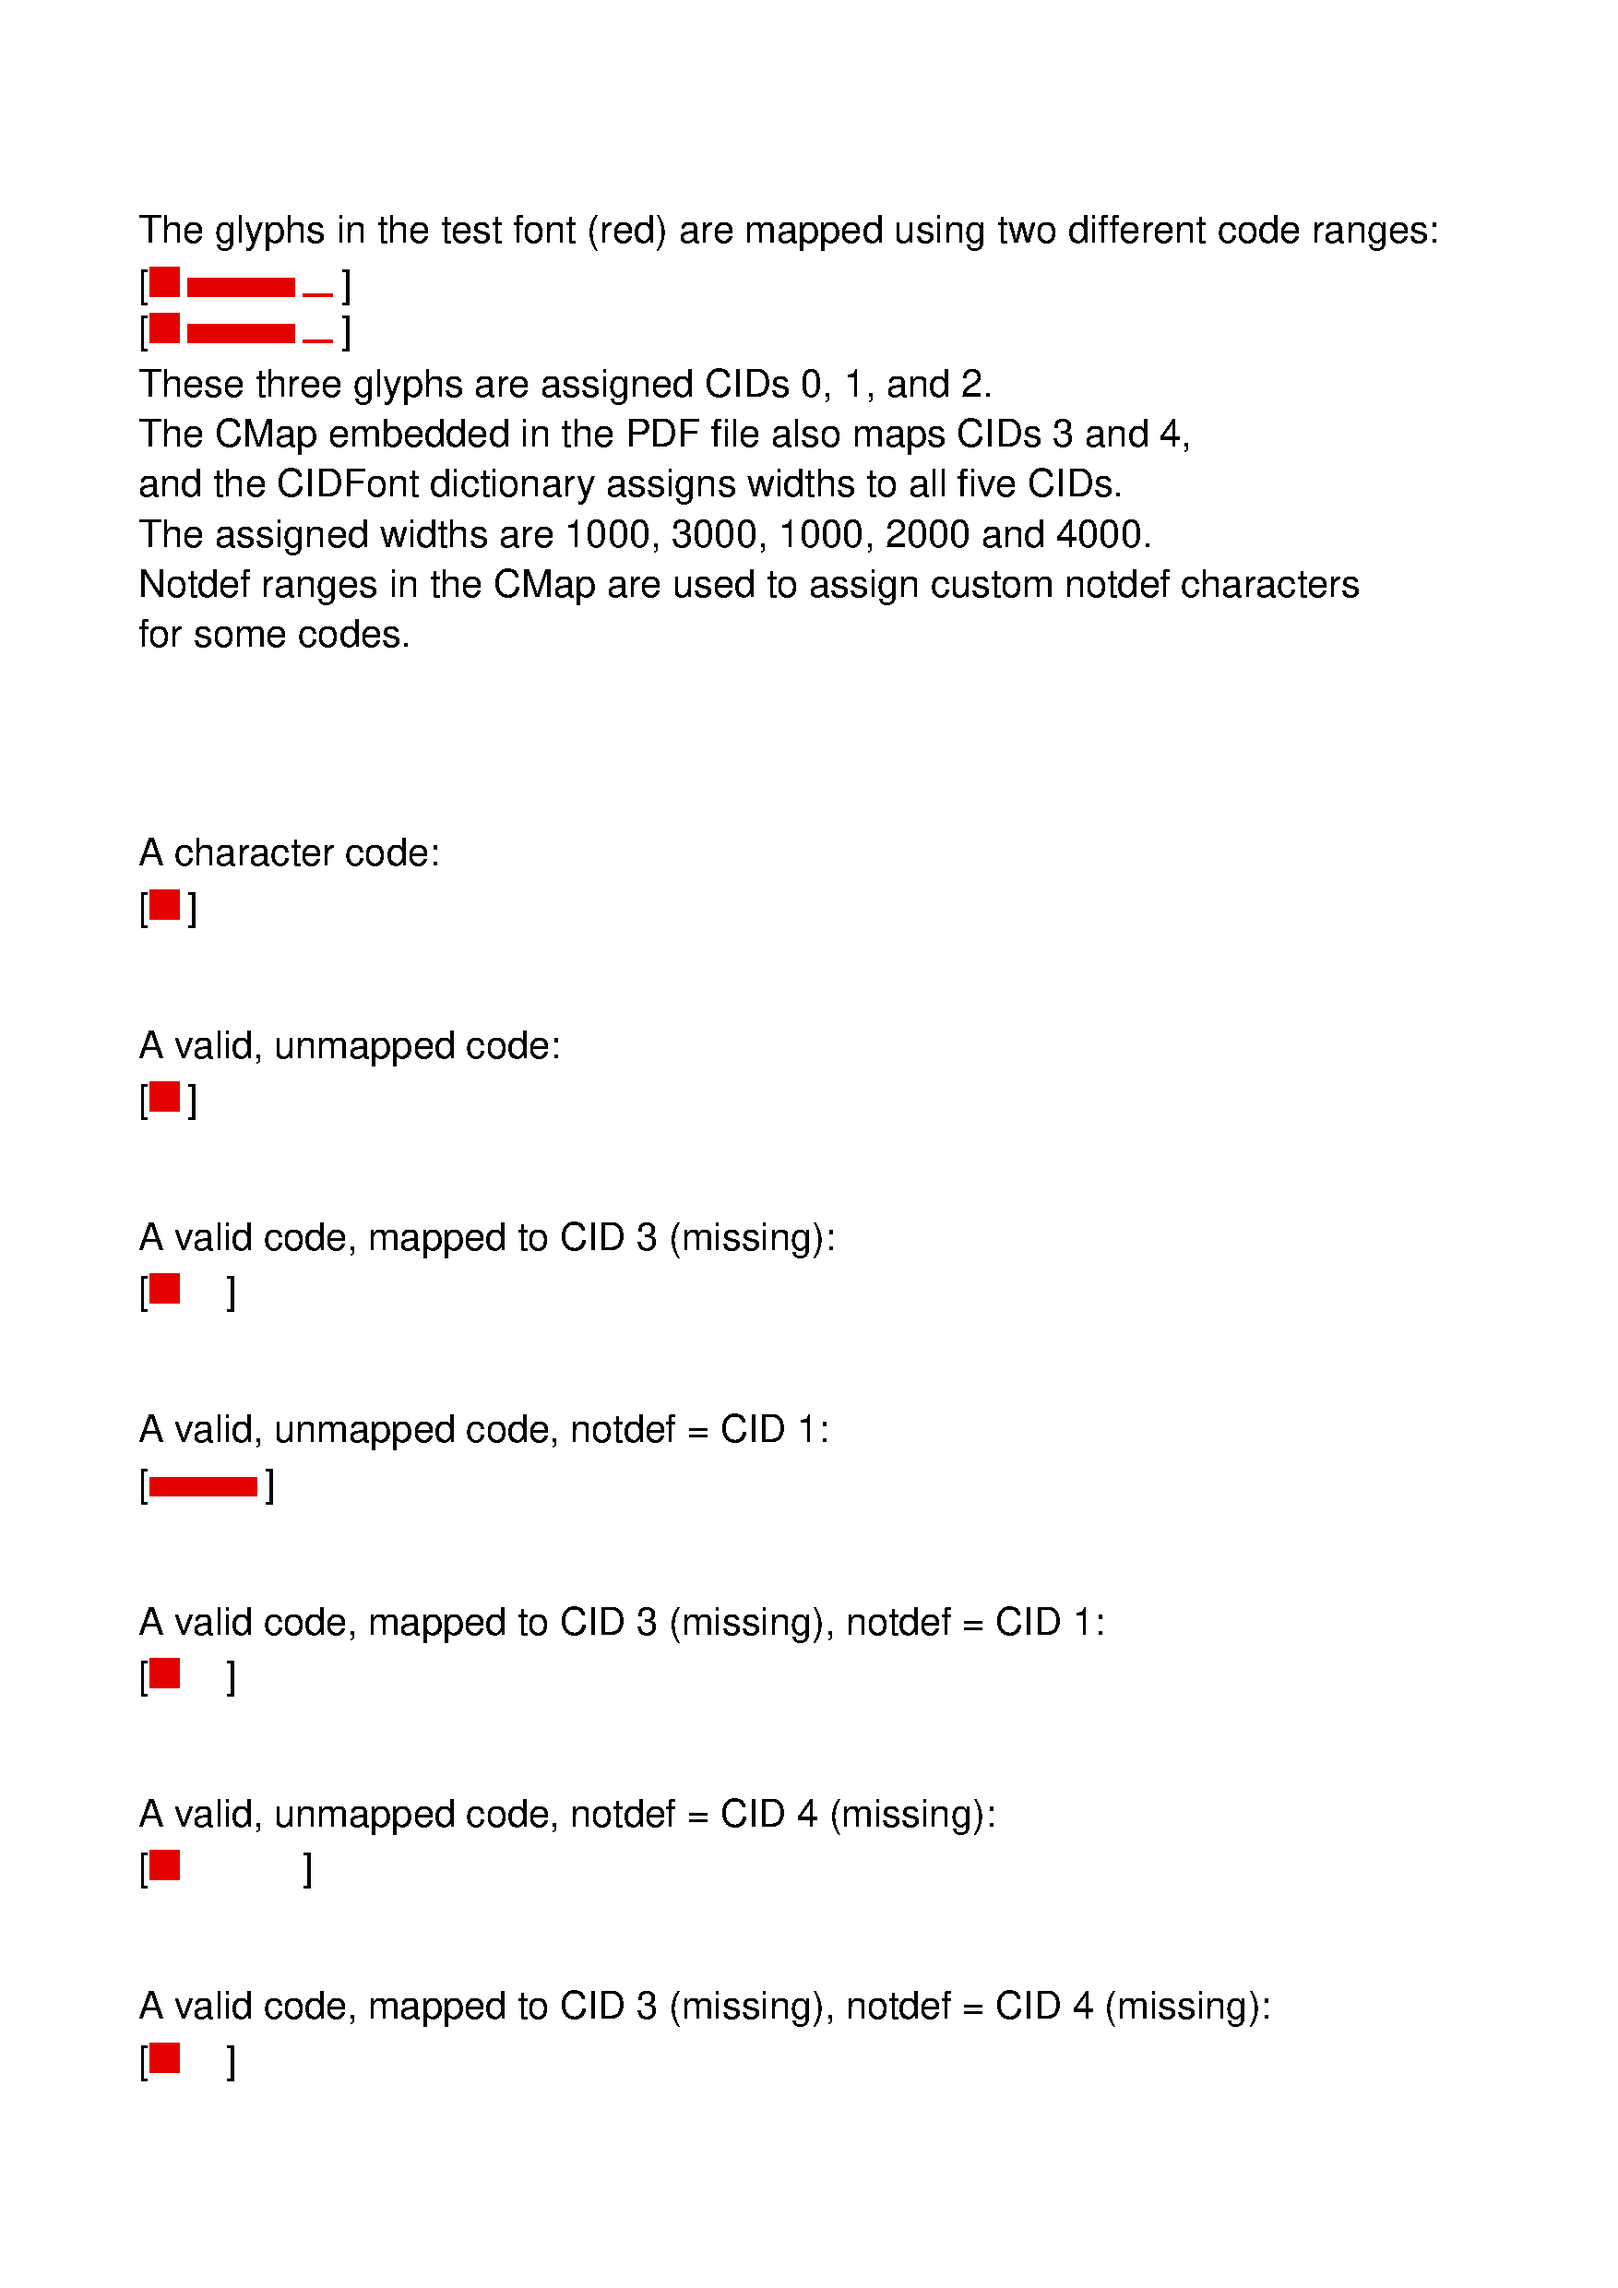
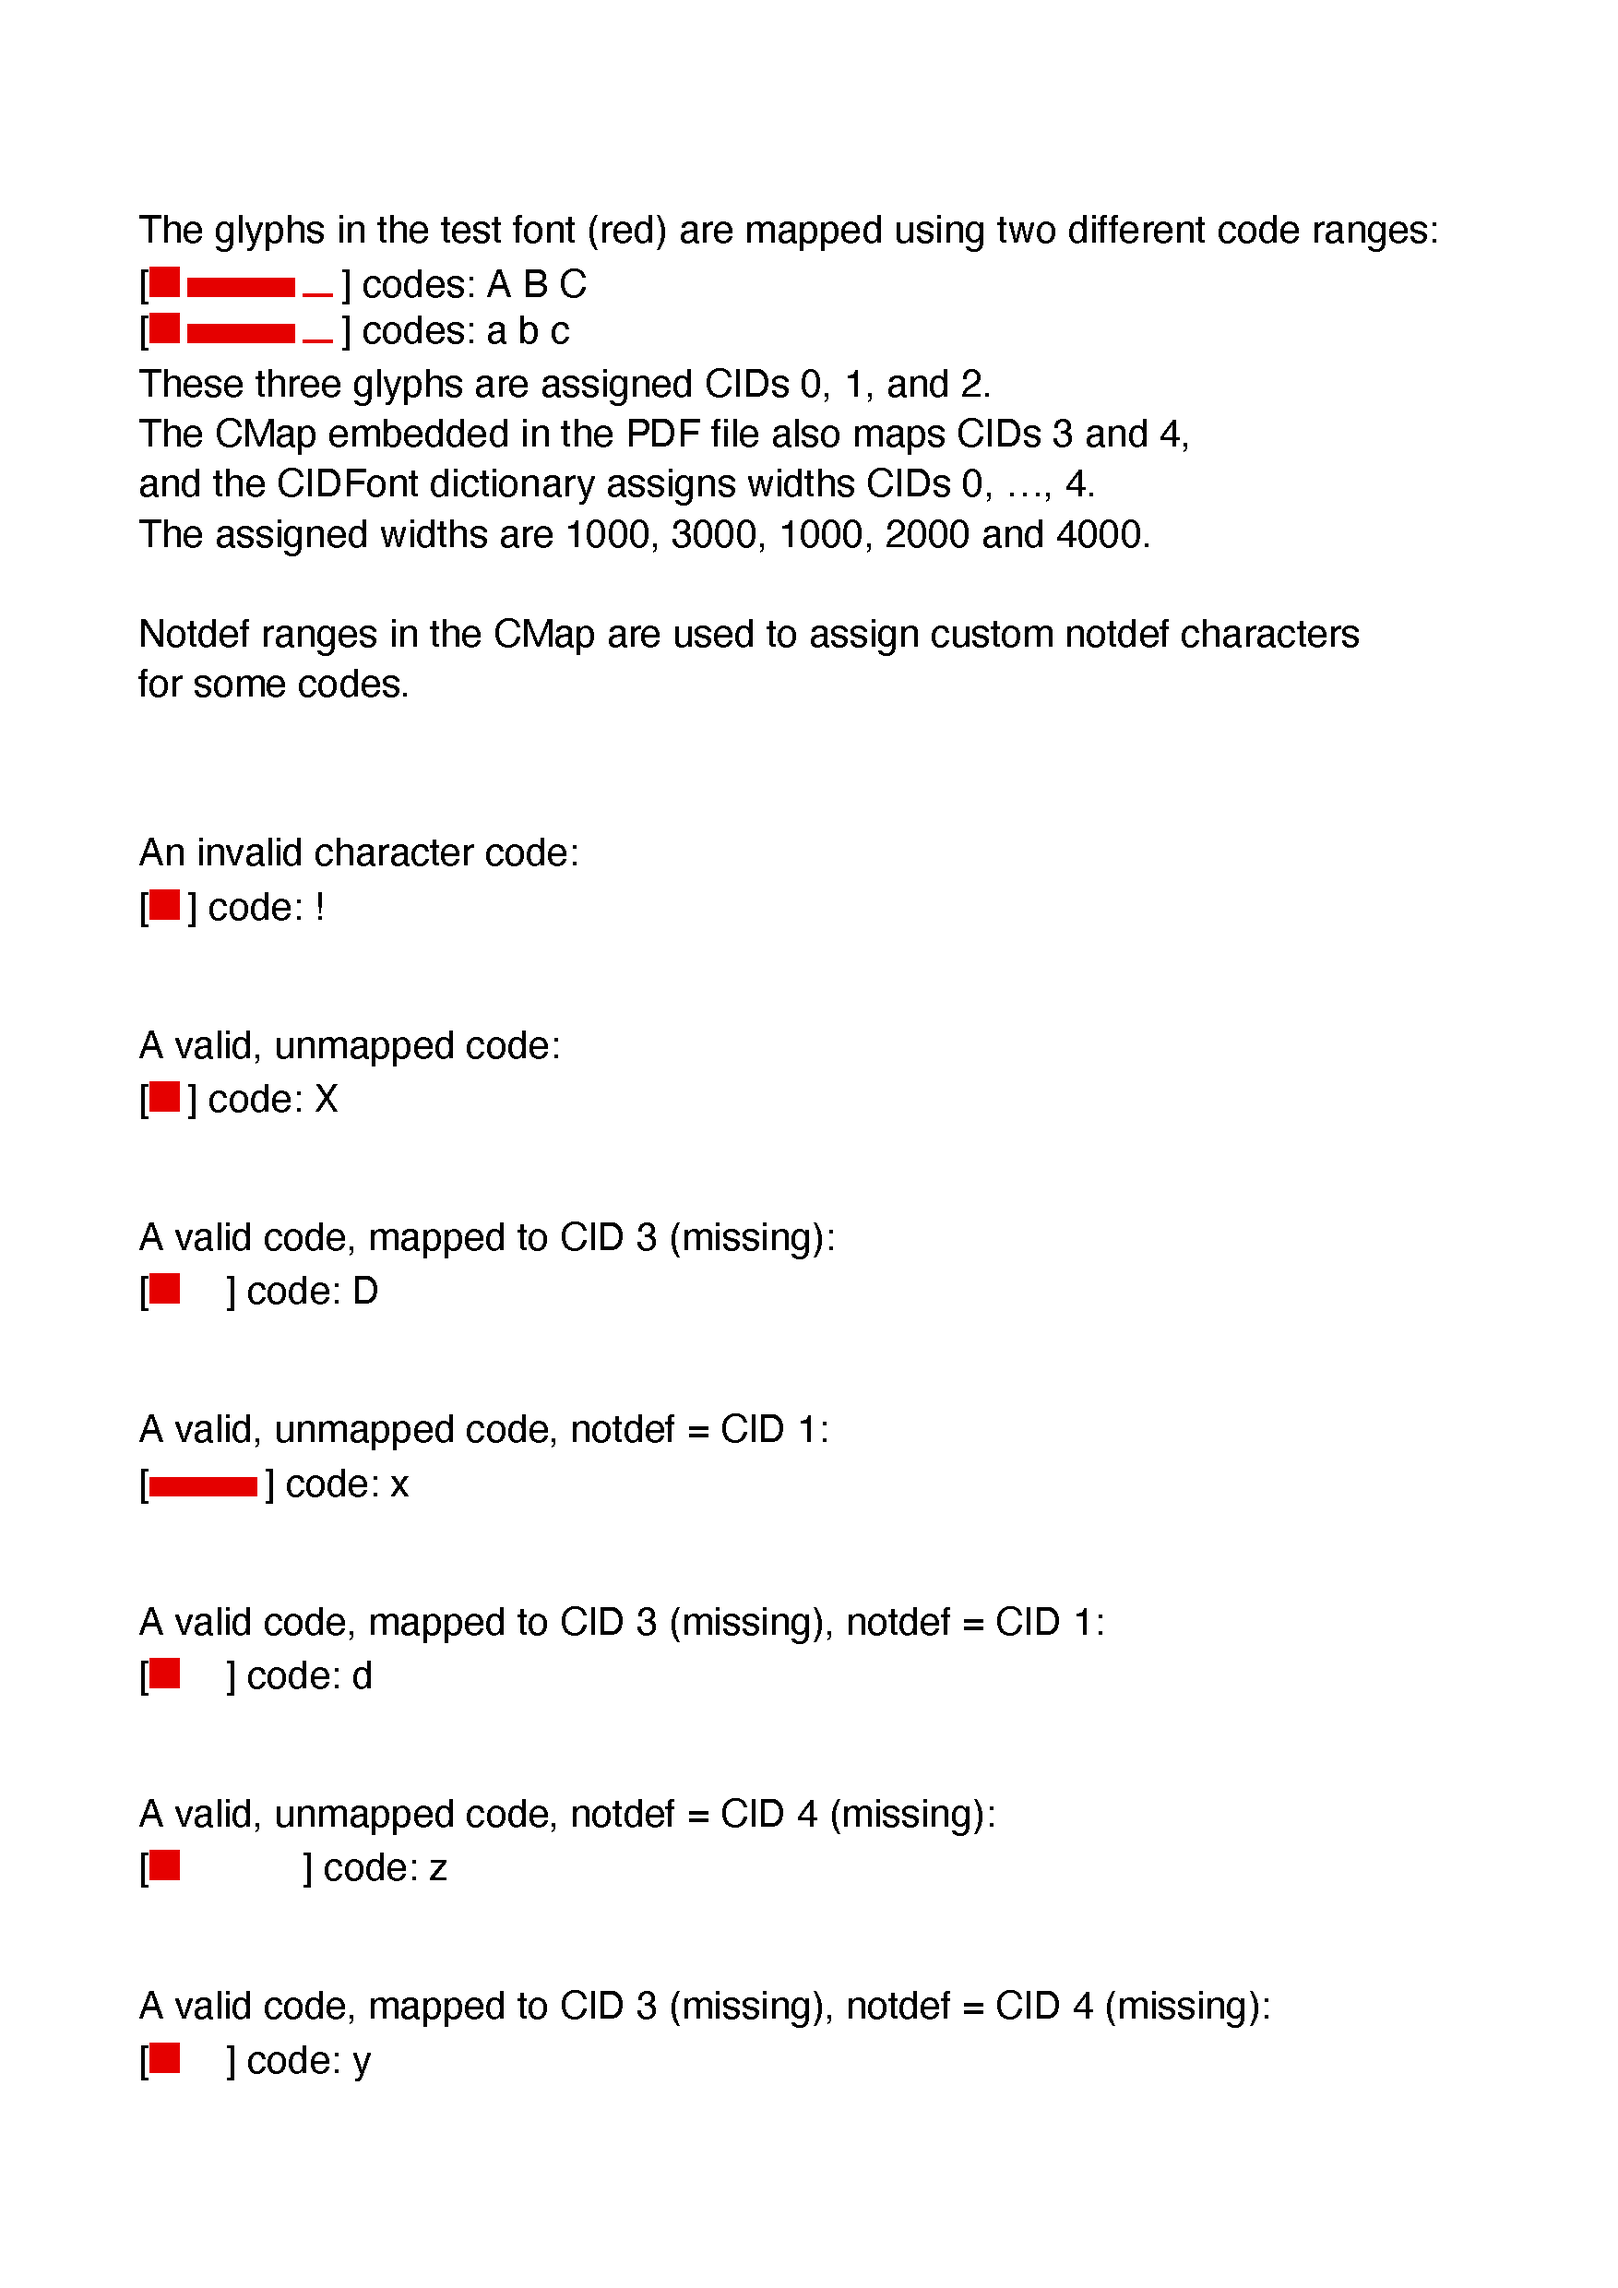
updates

diff --git a/examples/viewer-tests/notdef-width/main.go b/examples/viewer-tests/notdef-width/main.go
@@ -68,7 +68,7 @@ func writeTestFile(filename string) error {
 	w.TextShowRaw(pdf.String("ABC"))
 	w.TextSetFont(textFont, 10)
 	w.SetFillColor(black)
-	w.TextShow("]")
+	w.TextShow("] codes: A B C")
 	w.TextSecondLine(0, -12)
 	w.TextShow("[")
 	w.TextSetFont(testFont, 10)
@@ -76,15 +76,16 @@ func writeTestFile(filename string) error {
 	w.TextShowRaw(pdf.String("abc"))
 	w.TextSetFont(textFont, 10)
 	w.SetFillColor(black)
-	w.TextShow("]")
+	w.TextShow("] codes: a b c")
 	w.TextSecondLine(0, -14)
 	w.TextShow("These three glyphs are assigned CIDs 0, 1, and 2.")
 	w.TextSecondLine(0, -13)
 	w.TextShow("The CMap embedded in the PDF file also maps CIDs 3 and 4,")
 	w.TextNextLine()
-	w.TextShow("and the CIDFont dictionary assigns widths to all five CIDs.")
+	w.TextShow("and the CIDFont dictionary assigns widths CIDs 0, …, 4.")
 	w.TextNextLine()
 	w.TextShow("The assigned widths are 1000, 3000, 1000, 2000 and 4000.")
+	w.TextNextLine()
 	w.TextNextLine()
 	w.TextShow("Notdef ranges in the CMap are used to assign custom notdef characters")
 	w.TextNextLine()
@@ -95,7 +96,7 @@ func writeTestFile(filename string) error {
 	w.TextFirstLine(36, 370)
 	w.TextSetFont(textFont, 10)
 	w.SetFillColor(black)
-	w.TextShow("A character code:")
+	w.TextShow("An invalid character code:")
 	w.TextSecondLine(0, -14)
 	w.TextShow("[")
 	w.TextSetFont(testFont, 10)
@@ -103,7 +104,7 @@ func writeTestFile(filename string) error {
 	w.TextShowRaw(pdf.String("!"))
 	w.TextSetFont(textFont, 10)
 	w.SetFillColor(black)
-	w.TextShow("]")
+	w.TextShow("] code: !")
 	w.TextEnd()
 
 	w.TextBegin()
@@ -118,7 +119,7 @@ func writeTestFile(filename string) error {
 	w.TextShowRaw(pdf.String("X"))
 	w.TextSetFont(textFont, 10)
 	w.SetFillColor(black)
-	w.TextShow("]")
+	w.TextShow("] code: X")
 	w.TextEnd()
 
 	w.TextBegin()
@@ -133,7 +134,7 @@ func writeTestFile(filename string) error {
 	w.TextShowRaw(pdf.String("D"))
 	w.TextSetFont(textFont, 10)
 	w.SetFillColor(black)
-	w.TextShow("]")
+	w.TextShow("] code: D")
 	w.TextEnd()
 
 	w.TextBegin()
@@ -148,7 +149,7 @@ func writeTestFile(filename string) error {
 	w.TextShowRaw(pdf.String("x"))
 	w.TextSetFont(textFont, 10)
 	w.SetFillColor(black)
-	w.TextShow("]")
+	w.TextShow("] code: x")
 	w.TextEnd()
 
 	w.TextBegin()
@@ -163,7 +164,7 @@ func writeTestFile(filename string) error {
 	w.TextShowRaw(pdf.String("d"))
 	w.TextSetFont(textFont, 10)
 	w.SetFillColor(black)
-	w.TextShow("]")
+	w.TextShow("] code: d")
 	w.TextEnd()
 
 	w.TextBegin()
@@ -178,7 +179,7 @@ func writeTestFile(filename string) error {
 	w.TextShowRaw(pdf.String("z"))
 	w.TextSetFont(textFont, 10)
 	w.SetFillColor(black)
-	w.TextShow("]")
+	w.TextShow("] code: z")
 	w.TextEnd()
 
 	w.TextBegin()
@@ -193,7 +194,7 @@ func writeTestFile(filename string) error {
 	w.TextShowRaw(pdf.String("y"))
 	w.TextSetFont(textFont, 10)
 	w.SetFillColor(black)
-	w.TextShow("]")
+	w.TextShow("] code: y")
 	w.TextEnd()
 
 	return w.Close()
@@ -252,7 +253,11 @@ func makeTestFont() *testFont {
 		FDSelect: func(glyph.ID) int {
 			return 0
 		},
-		ROS:      testCharacterCollection,
+		ROS: &cff.CIDSystemInfo{
+			Registry:   "seehuhn.de",
+			Ordering:   "Test",
+			Supplement: 0,
+		},
 		GIDToCID: []cid.CID{0, 1, 2}, // identity GID <-> CID mapping
 	}
 	fontCFF := &cff.Font{
@@ -263,22 +268,47 @@ func makeTestFont() *testFont {
 		Outlines: o,
 	}
 
+	cmap := &cmap.InfoNew{
+		Name: "TestCMap",
+		ROS: &cmap.CIDSystemInfo{
+			Registry:   o.ROS.Registry,
+			Ordering:   o.ROS.Ordering,
+			Supplement: pdf.Integer(o.ROS.Supplement),
+		},
+		WMode: cmap.Horizontal,
+		CodeSpaceRange: []charcode.Range{
+			{Low: []byte{'A'}, High: []byte{'Z'}},
+			{Low: []byte{'a'}, High: []byte{'z'}},
+		},
+		CIDRanges: []cmap.RangeNew{
+			// Map all glyphs twice (including the missing CIDs 3 and 4).
+			{First: []byte{'A'}, Last: []byte{'E'}, Value: 0},
+			{First: []byte{'a'}, Last: []byte{'e'}, Value: 0},
+		},
+		CIDSingles: []cmap.SingleNew{
+			{Code: []byte{'y'}, Value: 3},
+		},
+		NotdefRanges: []cmap.RangeNew{
+			// Codes 'y' and 'z' use a non-existent glyph as the notdef character.
+			{First: []byte{'y'}, Last: []byte{'z'}, Value: 4},
+			// For the rest of the lowercase range we use the alternative
+			// notdef glyph (CID 1).
+			{First: []byte{'a'}, Last: []byte{'x'}, Value: 1},
+		},
+	}
+
 	res := &testFont{
 		data: fontCFF,
+		cmap: cmap,
 	}
 	return res
-}
-
-var testCharacterCollection = &cff.CIDSystemInfo{
-	Registry:   "seehuhn.de",
-	Ordering:   "Test",
-	Supplement: 0,
 }
 
 var _ font.Font = (*testFont)(nil)
 
 type testFont struct {
 	data *cff.Font
+	cmap *cmap.InfoNew
 }
 
 func (f *testFont) PostScriptName() string {
@@ -292,44 +322,17 @@ func (f *testFont) Embed(rm *pdf.ResourceManager) (pdf.Native, font.Embedded, er
 		FontName:   "Test",
 		FontFamily: "Test",
 		FontBBox:   rect.Rect{LLx: 0, LLy: 0, URx: 3000, URy: 1000},
-		Ascent:     1000,
+		Ascent:     800,
 		Descent:    0,
 		Leading:    1000,
-		CapHeight:  1000,
+		CapHeight:  800,
 		XHeight:    500,
 	}
 	dicts := &cidfont.Type0Dict{
 		Ref:            fontDictRef,
 		PostScriptName: "Test",
 		Descriptor:     fd,
-		Encoding: &cmap.InfoNew{
-			Name: "TestCMap",
-			ROS: &cmap.CIDSystemInfo{
-				Registry:   testCharacterCollection.Registry,
-				Ordering:   testCharacterCollection.Ordering,
-				Supplement: pdf.Integer(testCharacterCollection.Supplement),
-			},
-			WMode: cmap.Horizontal,
-			CodeSpaceRange: []charcode.Range{
-				{Low: []byte{'A'}, High: []byte{'Z'}},
-				{Low: []byte{'a'}, High: []byte{'z'}},
-			},
-			CIDRanges: []cmap.RangeNew{
-				// Map all glyphs twice (including the missing CIDs 3 and 4).
-				{First: []byte{'A'}, Last: []byte{'E'}, Value: 0},
-				{First: []byte{'a'}, Last: []byte{'e'}, Value: 0},
-			},
-			CIDSingles: []cmap.SingleNew{
-				{Code: []byte{'y'}, Value: 3},
-			},
-			NotdefRanges: []cmap.RangeNew{
-				// Codes 'y' and 'z' use a non-existent glyph as the notdef character.
-				{First: []byte{'y'}, Last: []byte{'z'}, Value: 4},
-				// For the rest of the lowercase range we use the alternative
-				// notdef glyph (CID 1).
-				{First: []byte{'a'}, Last: []byte{'x'}, Value: 1},
-			},
-		},
+		Encoding:       f.cmap,
 		Width: map[cmap.CID]float64{
 			0: 1000,
 			1: 3000,
@@ -338,16 +341,6 @@ func (f *testFont) Embed(rm *pdf.ResourceManager) (pdf.Native, font.Embedded, er
 			4: 4000,
 		},
 		DefaultWidth: 1000,
-		Text: &cmap.ToUnicodeInfo{
-			CodeSpaceRange: []charcode.Range{
-				{Low: []byte{'A'}, High: []byte{'Z'}},
-				{Low: []byte{'a'}, High: []byte{'z'}},
-			},
-			Ranges: []cmap.ToUnicodeRange{
-				{First: []byte{'A'}, Last: []byte{'Z'}, Values: [][]rune{{'A'}}},
-				{First: []byte{'a'}, Last: []byte{'z'}, Values: [][]rune{{'a'}}},
-			},
-		},
 		GetFont: func() (cidfont.Type0FontData, error) {
 			return f.data, nil
 		},

diff --git a/font/type1/font.go b/font/type1/font.go
@@ -78,7 +78,12 @@ func New(psFont *type1.Font, metrics *afm.Metrics, opt *font.Options) (*Instance
 		return nil, errors.New("composite embedding for Type 1 fonts not supported")
 	}
 
-	glyphNames := psFont.GlyphList()
+	var glyphNames []string
+	if psFont != nil {
+		glyphNames = psFont.GlyphList()
+	} else {
+		glyphNames = metrics.GlyphList()
+	}
 
 	geometry := &font.Geometry{}
 	widths := make([]float64, len(glyphNames))
@@ -146,7 +151,7 @@ func New(psFont *type1.Font, metrics *afm.Metrics, opt *font.Options) (*Instance
 // IsConsistent checks whether the font metrics are compatible with the
 // given font.
 func isConsistent(F *type1.Font, M *afm.Metrics) bool {
-	if M == nil {
+	if F == nil || M == nil {
 		return true
 	}
 	for name, glyph := range F.Glyphs {
@@ -299,7 +304,7 @@ func (f *embeddedSimple) Finish(*pdf.ResourceManager) error {
 		postScriptName = metricsData.FontName
 	}
 
-	omitFontData := fontData == nil || pdf.GetVersion(f.w) < pdf.V2_0 && isStandard(postScriptName, encoding, ww)
+	omitFontData := isStandard(postScriptName, encoding, ww)
 	if !omitFontData { // only subset the font, if the font is embedded
 		psFull := f.psFont
 

diff --git a/font/cidfont/type0.go b/font/cidfont/type0.go
@@ -117,6 +117,11 @@ func (d *Type0Dict) Finish(rm *pdf.ResourceManager) error {
 		cidFontName = pdf.Name(d.PostScriptName)
 	}
 
+	cidSystemInfo, _, err := pdf.ResourceManagerEmbed(rm, d.Encoding.ROS)
+	if err != nil {
+		return err
+	}
+
 	encoding, _, err := pdf.ResourceManagerEmbed(rm, d.Encoding)
 	if err != nil {
 		return err
@@ -147,7 +152,7 @@ func (d *Type0Dict) Finish(rm *pdf.ResourceManager) error {
 		"Type":           pdf.Name("Font"),
 		"Subtype":        pdf.Name("CIDFontType0"),
 		"BaseFont":       pdf.Name(cidFontName),
-		"CIDSystemInfo":  d.Encoding.ROS,
+		"CIDSystemInfo":  cidSystemInfo,
 		"FontDescriptor": fdRef,
 		// we set the width information later
 	}

diff --git a/font/cmap/tu-new.go b/font/cmap/tu-new.go
@@ -114,7 +114,8 @@ func (r ToUnicodeRange) All(codec *charcode.Codec) iter.Seq2[uint32, []rune] {
 
 // IsEmpty returns true if the ToUnicodeInfo object does not contain any mappings.
 func (info *ToUnicodeInfo) IsEmpty() bool {
-	return len(info.Singles) == 0 && len(info.Ranges) == 0 && info.Parent == nil
+	return info == nil ||
+		len(info.Singles) == 0 && len(info.Ranges) == 0 && info.Parent == nil
 }
 
 // MakeName returns a unique name for the ToUnicodeInfo object.
